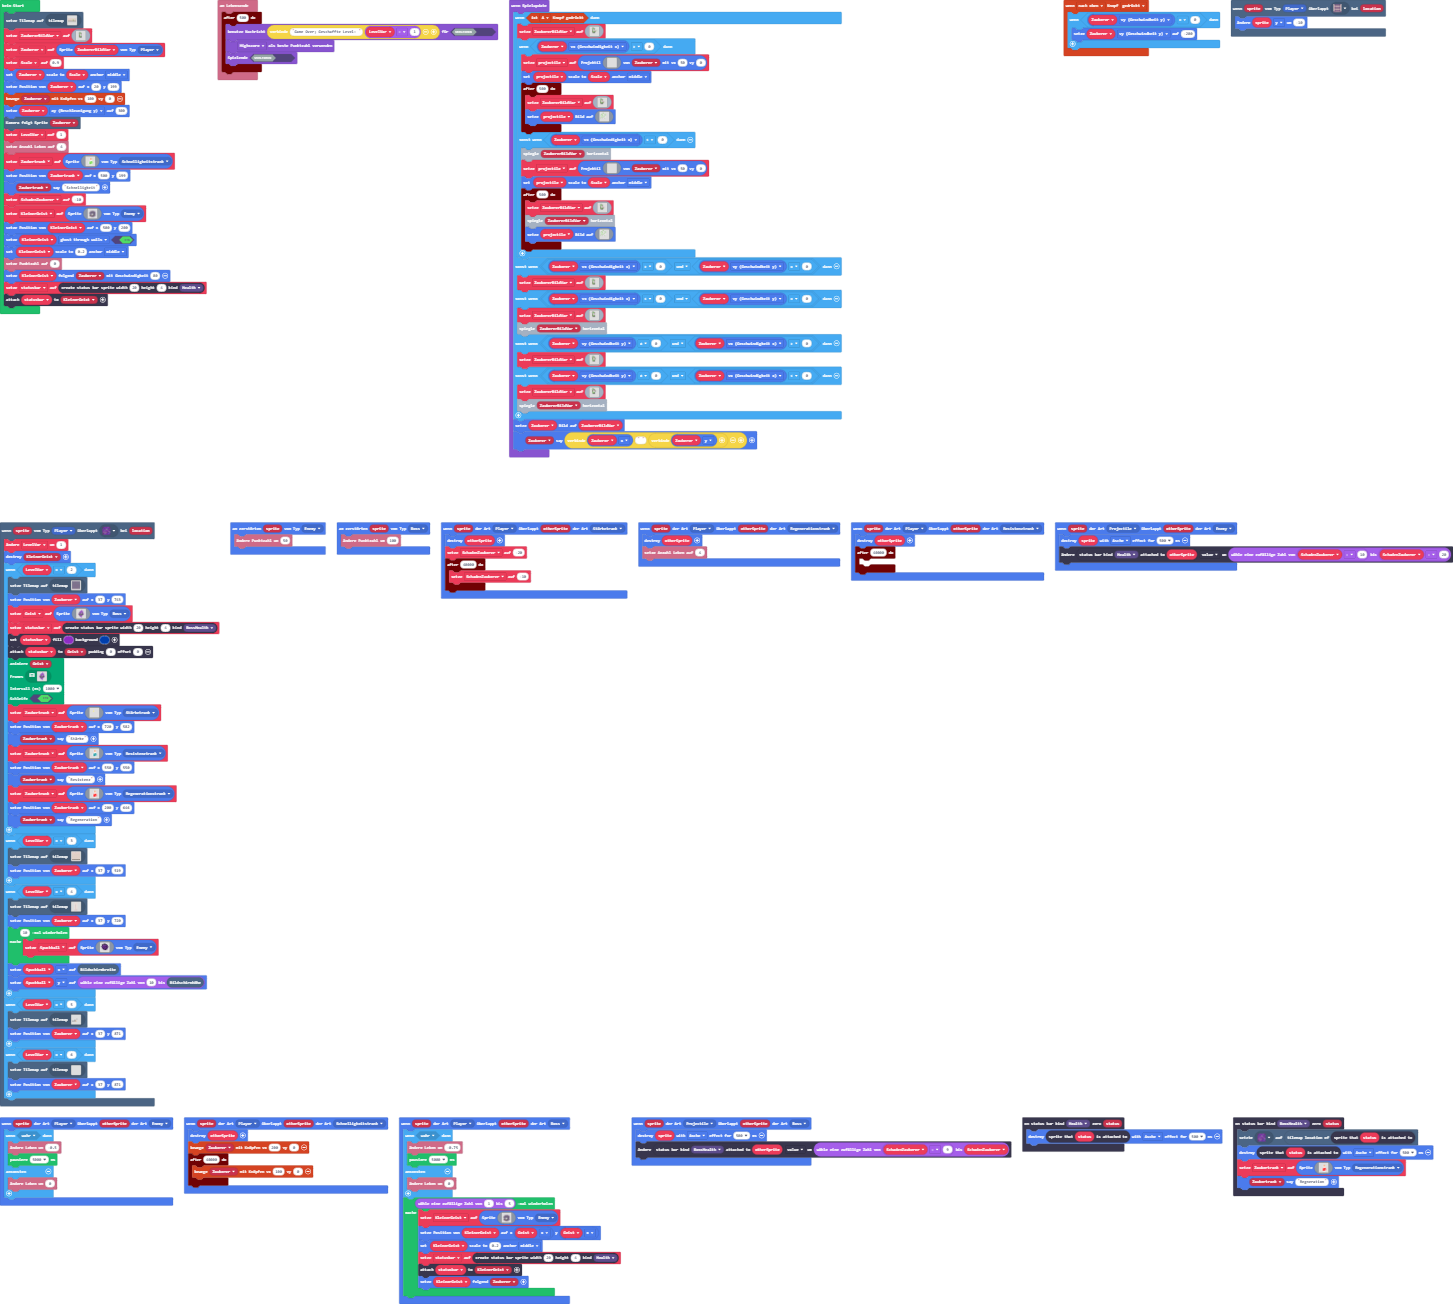
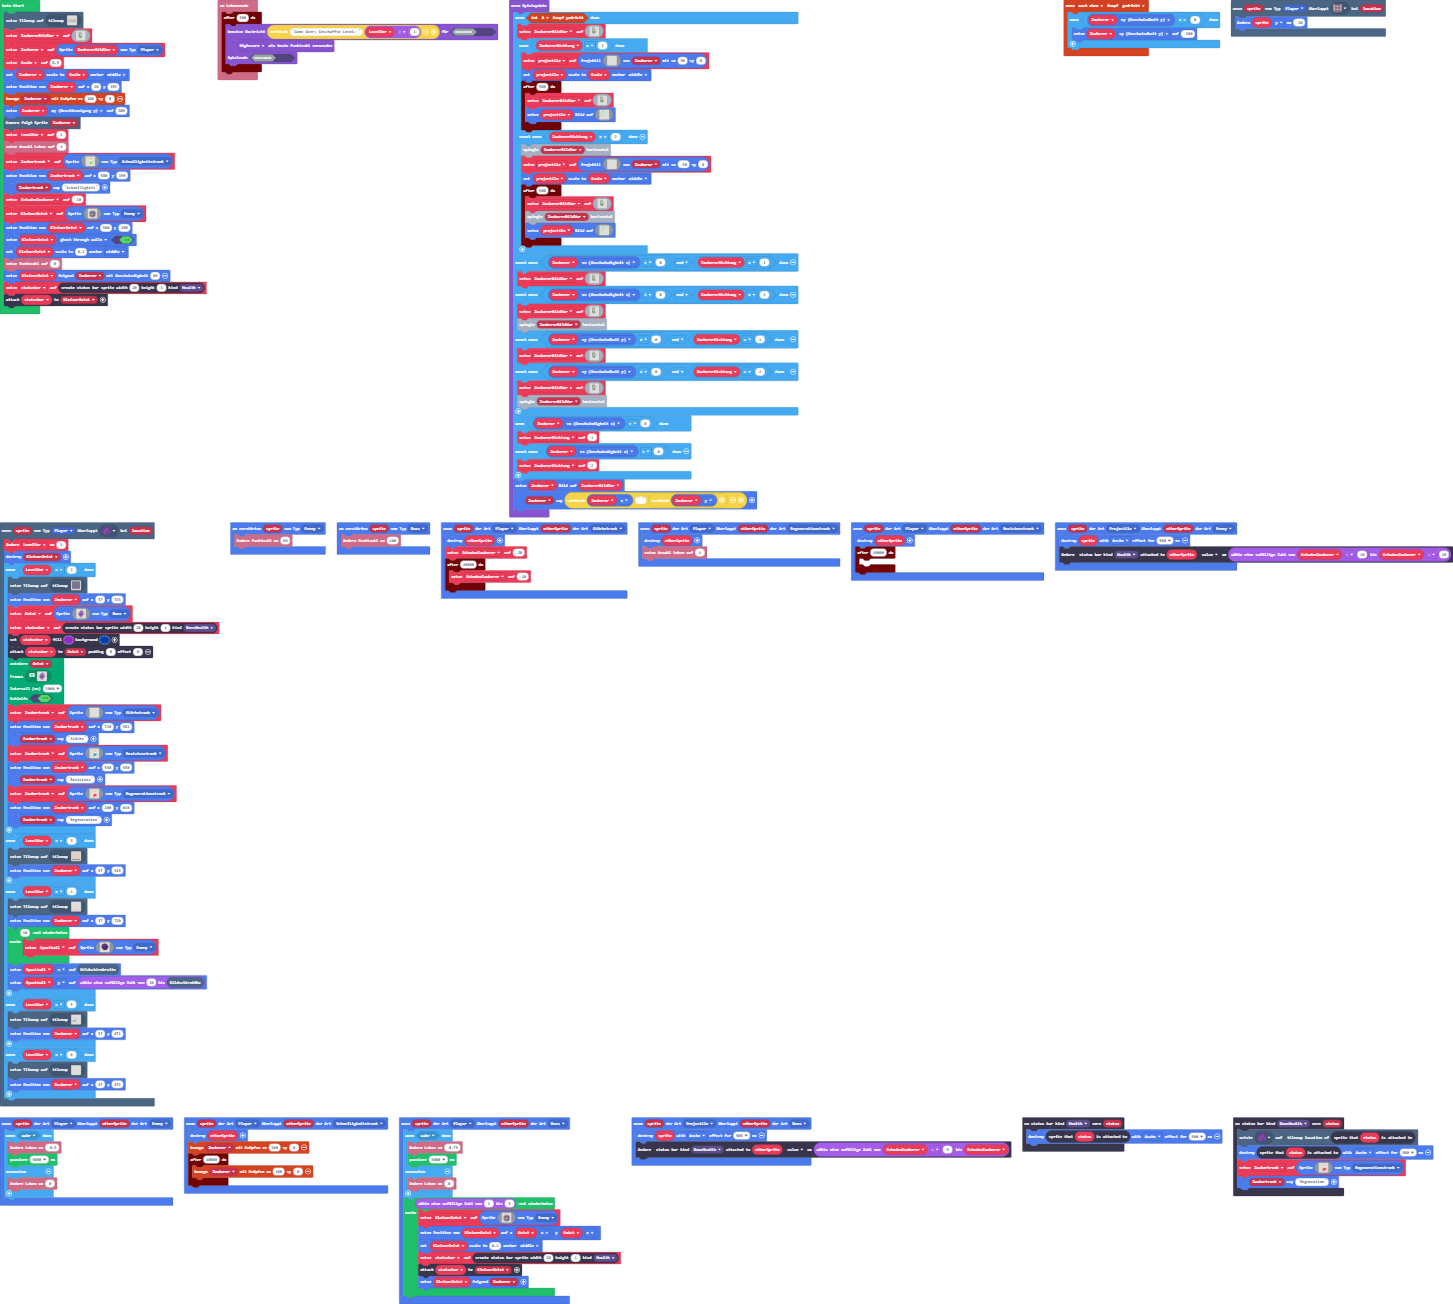
Aktualisiere main.blocks, main.ts, images.g.jres, images.g.ts

Changed region(s): [[0.3407, 0.0307, 0.5884, 0.3988], [0.5575, 0.0, 0.5884, 0.0307]]

diff --git a/images.g.ts b/images.g.ts
@@ -750,161 +750,6 @@ namespace myImages {
 
     helpers._registerFactory("animation", function(name: string) {
         switch(helpers.stringTrim(name)) {
-            case "MagierZaubertAnimation":
-            case "anim1":return [img`
-..................................................
-..................................................
-..................................................
-..................................................
-..............ffffffff............................
-.............ff777777fff..........................
-............f77777777777ff........................
-...........fffff777777777ff.......................
-................f777777777ff......................
-.................f777777777ff.....................
-.................f777777ffffff....................
-.................f7777fff11111f...................
-.................f777ff1ddddd1f...................
-................f777ffdd1ddd1f..........1...1.....
-................f77ff1d12dd12f...........7.b.1....
-...............ff77f11dddddddf........1.1...7.....
-...............f77f111dddddddf.........7..7.1..7..
-...............f77f1111111111f.........b.1....7...
-...............f7ff11111122111f.......7.7.7.11..7.
-................fff11111122111f......1.1.1b..b....
-...............f7f11111111111f.......ee..71.77.1..
-..............ff77f11111111111f.....ee.17...1.....
-..............f777ff1111111111f....ee.b...7.b..1..
-..............f7777f1f1111111f....ee..1.7..1.1....
-..............f777fffff11111f...ffe..7...b........
-..............f77f7777f1f111f.ff7f4......1.1..7...
-..............f777f7777fff1fff777f4...............
-..............fffff777777fff77f77f4...............
-..............f444f77777777f77f77f................
-..............f444f777777777f7f7ff................
-..............fffff777777777f7ff..................
-..............ff777777777777ff....................
-...............f777fffffffff......................
-...............f77fbbf..fbbfff....................
-................ffbbbbf.fbbbbf....................
-.................ffffff.ffffff....................
-..................................................
-..................................................
-..................................................
-..................................................
-..................................................
-..................................................
-..................................................
-..................................................
-..................................................
-..................................................
-..................................................
-..................................................
-..................................................
-..................................................
-`, img`
-..................................................
-..................................................
-..................................................
-..................................................
-..............ffffffff............................
-.............ff777777fff..........................
-............f77777777777ff........................
-...........fffff777777777ff.......................
-................f777777777ff......................
-.................f777777777ff.....................
-.................f777777ffffff....................
-.................f7777fff11111f...................
-.................f777ff1ddddd1f...................
-................f777ffdd1ddd1f....................
-................f77ff1d12dd12f....................
-...............ff77f11dddddddf....................
-...............f77f111dddddddf....................
-...............f77f1111111111f....................
-...............f7ff11111122111f...................
-................fff11111122111f...................
-...............f7f11111111111f.......ee...........
-..............ff77f11111111111f.....ee............
-..............f777ff1111111111f....ee.............
-..............f7777f1f1111111f....ee..............
-..............f777fffff11111f...ffe...............
-..............f77f7777f1f111f.ff7f4...............
-..............f777f7777fff1fff777f4...............
-..............fffff777777fff77f77f4...............
-..............f444f77777777f77f77f................
-..............f444f777777777f7f7ff................
-..............fffff777777777f7ff..................
-..............ff777777777777ff....................
-...............f777fffffffff......................
-...............f77fbbf..fbbfff....................
-................ffbbbbf.fbbbbf....................
-.................ffffff.ffffff....................
-..................................................
-..................................................
-..................................................
-..................................................
-..................................................
-..................................................
-..................................................
-..................................................
-..................................................
-..................................................
-..................................................
-..................................................
-..................................................
-..................................................
-`, img`
-..................................................
-..................................................
-..................................................
-..................................................
-..............ffffffff............................
-.............ff777777fff..........................
-............f77777777777ff........................
-...........fffff777777777ff.......................
-................f777777777ff......................
-.................f777777777ff.....................
-.................f777777ffffff....................
-.................f7777fff11111f...................
-.................f777ff1ddddd1f...................
-................f777ffdd1ddd1f....................
-................f77ff1d1fdd1ff....................
-...............ff77f11dddddddf....................
-...............f77f111dddddddf....................
-...............f77f1111111111f....................
-...............f7ff11111222111f...................
-................fff11111111111f...................
-...............f7f11111111111f....................
-..............ff77f11111111111f...................
-..............f777ff1111111111f...................
-..............f7777f1f1111111f....................
-..............f777fffff11111f.....................
-..............f77f7777f1f111f.....................
-..............f777f7777fff1fff....................
-..............fffff777777fff4f....................
-..............f444f777777777ff....................
-..............f444f777777777f.....................
-..............fffff777777777f.....................
-..............ff777777777777f.....................
-...............f777fffffffff......................
-...............f77fbbf..fbbfff....................
-................ffbbbbf.fbbbbf....................
-.................ffffff.ffffff....................
-..................................................
-..................................................
-..................................................
-..................................................
-..................................................
-..................................................
-..................................................
-..................................................
-..................................................
-..................................................
-..................................................
-..................................................
-..................................................
-..................................................
-`];
             case "ZaubererWalkAnimation":
             case "anim4":return [img`
 ..................................................

diff --git a/main.ts b/main.ts
@@ -144,6 +144,7 @@ sprites.onOverlap(SpriteKind.Player, SpriteKind.Boss, function (sprite, otherSpr
     }
 })
 let projectile: Sprite = null
+let ZaubererRichtung = 0
 let Spuckball: Sprite = null
 let Geist: Sprite = null
 let statusbar: StatusBarSprite = null
@@ -178,16 +179,16 @@ statusbar.attachToSprite(KleinerGeist)
 game.onUpdate(function () {
     if (controller.A.isPressed()) {
         ZaubererBildVar = assets.image`ZaubererZaubert1Bild`
-        if (Zauberer.vx > 0) {
+        if (ZaubererRichtung == 1) {
             projectile = sprites.createProjectileFromSprite(assets.image`LeerBild`, Zauberer, 50, 0)
             projectile.setScale(Scale, ScaleAnchor.Middle)
             timer.after(500, function () {
                 ZaubererBildVar = assets.image`ZaubererZaubert2Bild`
                 projectile.setImage(assets.image`ProjectileZauberer`)
             })
-        } else if (Zauberer.vx < 0) {
+        } else if (ZaubererRichtung == 2) {
             ZaubererBildVar.flipX()
-            projectile = sprites.createProjectileFromSprite(assets.image`LeerBild`, Zauberer, 50, 0)
+            projectile = sprites.createProjectileFromSprite(assets.image`LeerBild`, Zauberer, -50, 0)
             projectile.setScale(Scale, ScaleAnchor.Middle)
             timer.after(500, function () {
                 ZaubererBildVar = assets.image`ZaubererZaubert2Bild`
@@ -195,16 +196,21 @@ game.onUpdate(function () {
                 projectile.setImage(assets.image`ProjectileZauberer`)
             })
         }
-    } else if (Zauberer.vx > 0 && Zauberer.vy == 0) {
+    } else if (Zauberer.vx > 0 && ZaubererRichtung == 1) {
         ZaubererBildVar = assets.image`Magier Normal`
-    } else if (Zauberer.vx < 0 && Zauberer.vy == 0) {
+    } else if (Zauberer.vx < 0 && ZaubererRichtung == 2) {
         ZaubererBildVar = assets.image`Magier Normal`
         ZaubererBildVar.flipX()
-    } else if (Zauberer.vy != 0 && Zauberer.vx > 0) {
+    } else if (Zauberer.vy != 0 && ZaubererRichtung == 1) {
         ZaubererBildVar = assets.image`ZaubererJumpBild`
-    } else if (Zauberer.vy != 0 && Zauberer.vx < 0) {
+    } else if (Zauberer.vy != 0 && ZaubererRichtung == 2) {
         ZaubererBildVar = assets.image`ZaubererJumpBild`
         ZaubererBildVar.flipX()
+    }
+    if (Zauberer.vx > 0) {
+        ZaubererRichtung = 1
+    } else if (Zauberer.vx < 0) {
+        ZaubererRichtung = 2
     }
     Zauberer.setImage(ZaubererBildVar)
     Zauberer.sayText("" + Zauberer.x + " " + ("" + Zauberer.y))
